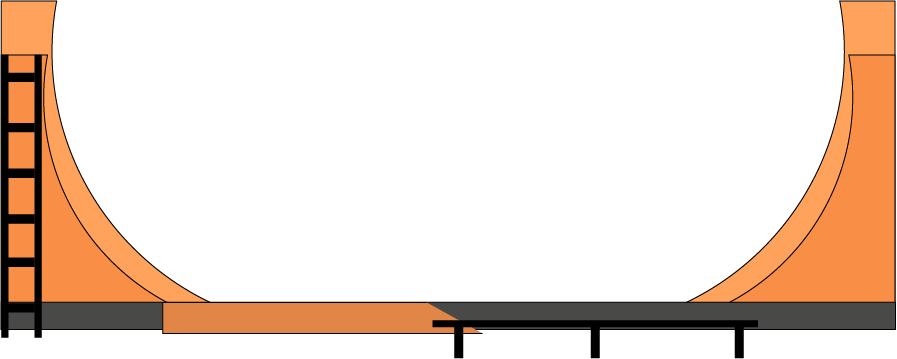
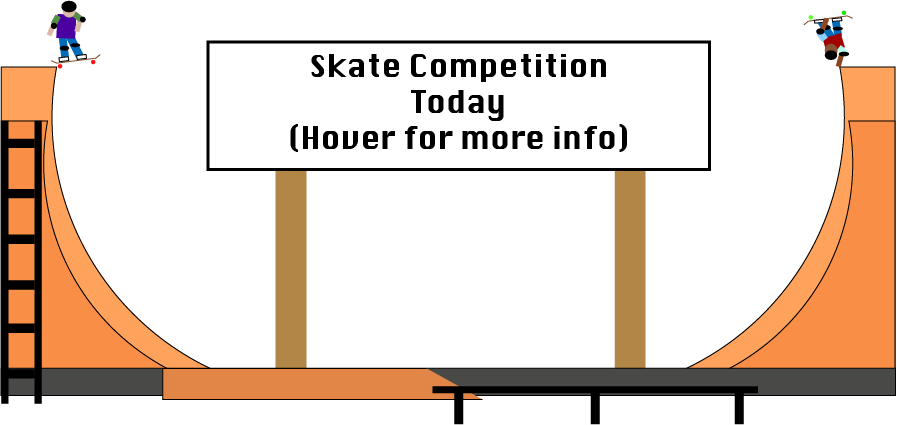
finalized pages

Changed region(s): [[0.0, 0.0, 0.9989, 0.9499]]

diff --git a/main.css b/main.css
@@ -131,7 +131,7 @@ body {
   width: 20px;
   height: 35px;
   top: 810px;
-  right: -8420px;
+  right: -9420px;
   z-index: 1;
 }
 
@@ -172,13 +172,13 @@ body {
 .ad3{
   display: block;
   position: absolute;
-  top: 620px;
-  right: -3780px;
+  top: 520px;
+  right: -8780px;
   z-index: -1;
 }
 .overlay2{
   position: absolute;
-  top: 50px;
+  top: 150px;
   bottom: 0;
   left: 100px;
   right: 0;
@@ -190,7 +190,7 @@ body {
 }
 .overlay3{
   position: absolute;
-  top: 50px;
+  top: 150px;
   bottom: 0;
   left: 475px;
   right: 0;
@@ -207,11 +207,197 @@ body {
   opacity: 1;
 }
 
+.ad4{
+  display: block;
+  position: absolute;
+  top: 385px;
+  right: -3980px;
+  z-index: -1;
+}
+.overlay0{
+  position: absolute;
+  top: 50px;
+  bottom: 0;
+  left: 100px;
+  right: 0;
+  height: 300px;
+  width: 300px;
+  opacity: 0;
+  transition: .5s ease;
+  background-color: #008CBA;
+  color: white;
+}
+.overlay1{
+  position: absolute;
+  top: 50px;
+  bottom: 0;
+  left: 1075px;
+  right: 0;
+  height: 350px;
+  width:300px;
+  opacity: 0;
+  transition: .5s ease;
+  background-color: #008CBA;
+  color: white;
+}
+.ad4:hover .overlay0 {
+  opacity: 1;
+}
+.ad4:hover .overlay1 {
+  opacity: 1;
+}
+
 .skatepark {
   position: absolute;
   right:-12000px;
-  top:475px;
+  top:420px;
   z-index: -1;
+}
+.overlay7{
+  position: absolute;
+  top: 125px;
+  bottom: 0;
+  left:350px;
+  right: 0;
+  height: 250px;
+  width:400px;
+  opacity: 0;
+  transition: .5s ease;
+  background-color: #008CBA;
+  color: white;
+}
+.skatepark:hover .overlay7{
+    opacity: 1;
+}
+.skaters1 {
+  position: absolute;
+  right:-3500px;
+  top:775px;
+  z-index: 1;
+}.skaters2 {
+  position: absolute;
+  right:-8900px;
+  top:775px;
+  z-index: 1;
+}
+.skaters3 {
+  position: absolute;
+  right:-11500px;
+  top:775px;
+  z-index: 1;
+}
+.skaters4 {
+  position: absolute;
+  right:-6300px;
+  top:775px;
+  z-index: 1;
+}
+
+
+.truck1{
+  display: block;
+  position: absolute;
+  top: 725px;
+  right: -4980px;
+
+}
+
+.vhs {
+  display: block;
+  position: absolute;
+  top: 570px;
+  right: -6700px;
+  z-index: -1;
+}
+.overlay4 {
+  position: absolute;
+  top: -200px;
+  bottom: 0;
+  left: 100px;
+  right: 0;
+  height: 350px;
+  width: 250px;
+  opacity: 0;
+  transition: .5s ease;
+  background-color: #008CBA;
+}
+
+.vhs:hover .overlay4 {
+  opacity: 1;
+}
+.overlay5 {
+  position: absolute;
+  top: -200px;
+  bottom: 0;
+  left: 650px;
+  right: 0;
+  height: 350px;
+  width: 250px;
+  opacity: 0;
+  transition: .5s ease;
+  background-color: #008CBA;
+}
+
+.vhs:hover .overlay5 {
+  opacity: 1;
+}
+
+.car1{
+  display: block;
+  position: absolute;
+  top: 800px;
+  right: -300px;
+}
+.car2{
+  display: block;
+  position: absolute;
+  top: 800px;
+  right: -8000px;
+  z-index: 2;
+}
+.car3{
+  display: block;
+  position: absolute;
+  top: 800px;
+  right: -11700px;
+  z-index: 2;
+}
+.car4{
+  display: block;
+  position: absolute;
+  top: 800px;
+  right: -3700px;
+  z-index: 2;
+}
+.car5{
+  display: block;
+  position: absolute;
+  top: 800px;
+  right: -10000px;
+  z-index: 2;
+}
+.xgames{
+  display: block;
+  position: absolute;
+  right:-10300px;
+  top:400px;
+  z-index: -2;
+}
+.overlay6{
+  position: absolute;
+  top: 150px;
+  bottom: 0;
+  left:50px;
+  right: 0;
+  height: 250px;
+  width:470px;
+  opacity: 0;
+  transition: .5s ease;
+  background-color: #008CBA;
+  color: white;
+}
+.xgames:hover .overlay6{
+    opacity: 1;
 }
 
 /* font css */

diff --git a/index.html b/index.html
@@ -20,7 +20,7 @@
     <!-- <p id="go">Let's Go!</p> -->
 </div>
 <div id="title">
-<h1>Evolution of Skateboarding</h1>
+<h1>History of Skateboarding</h1>
 </div>
 <div id="title2">
   <h3>An interactive long scrolling site on the history of skateboarding.</h3>
@@ -47,13 +47,87 @@
 <div class="ad3">
   <img src="images/skate3.png" alt="">
   <div class="overlay2">
+    <img src="images/poster.png" alt="">
   </div>
   <div class="overlay3">
+    <img src="images/poster.png" alt="">
   </div>
 </div>
 
+<div class="truck1">
+  <img src="images/truck.png" alt="">
+</div>
+
+<div class="car1">
+  <img src="images/car4.png" alt="">
+</div>
+<div class="car2">
+  <img src="images/car2.png" alt="">
+</div><div class="car3">
+  <img src="images/car3.png" alt="">
+</div>
+<div class="car4">
+  <img src="images/car4.png" alt="">
+</div>
+<div class="car5">
+  <img src="images/car4.png" alt="">
+</div>
+
+
+<div class="ad4">
+  <img src="images/skate4.png" alt="">
+  <div class="overlay0">
+    <div class="text">
+      The Zephyr team consisted of many members, but the most notable of them where Tony Alva, Jay Adams and Stacy Peralta.
+  </div>
+</div>
+  <div class="overlay1">
+    <div class="text">
+      Then in 1978 Alan "Ollie" Gelfand invented a maneuver known as the "Ollie" that gave skateboarding another revolutionary jump.
+  </div>
+</div>
+</div>
+<div class="vhs">
+  <img src="images/vhs.png" alt="">
+  <div class="overlay4">
+    <div class="text">
+      With the invention of the VHS, Stacey Peralta and George Bones Brigade team started recording skateboarding videos.
+    </div>
+      </div>
+    <div class="overlay5">
+      <div class="text">
+        The team included Steve Caballero, Tony Hawk, Mike McGill, Lance Mountain, Rodney Mullen, Stacy Peralta, and Kevin Staab.
+      </div>
+    </div>
+</div>
+
+<div class="skaters1">
+  <img src="images/skaters.png" alt="">
+</div>
+<div class="skaters2">
+  <img src="images/skaters.png" alt="">
+</div>
+<div class="skaters3">
+  <img src="images/skaters.png" alt="">
+</div>
+<div class="skaters4">
+  <img src="images/skaters.png" alt="">
+</div>
 <div class="skatepark">
   <img src="images/skatepark.png" alt="">
+  <div class="overlay7">
+    <div class="text">
+      Skateparks pop up everywhere and skateboarding video games lets every kid be a skater. The X-Games continues to become more and more popular with Skateboarding at the helm.
+    </div>
+  </div>
+</div>
+<div class="xgames">
+  <img src="images/xgames.png" alt="">
+  <div class="overlay6">
+    <div class="text">
+      Then in 1995 ESPN holds the first ever X-Games. The event was a huge success and brought skateboarding into the mainstream light sparking interest in many more young kids.
+    </div>
+  </div>
 </div>
 
 <div class="box1">
